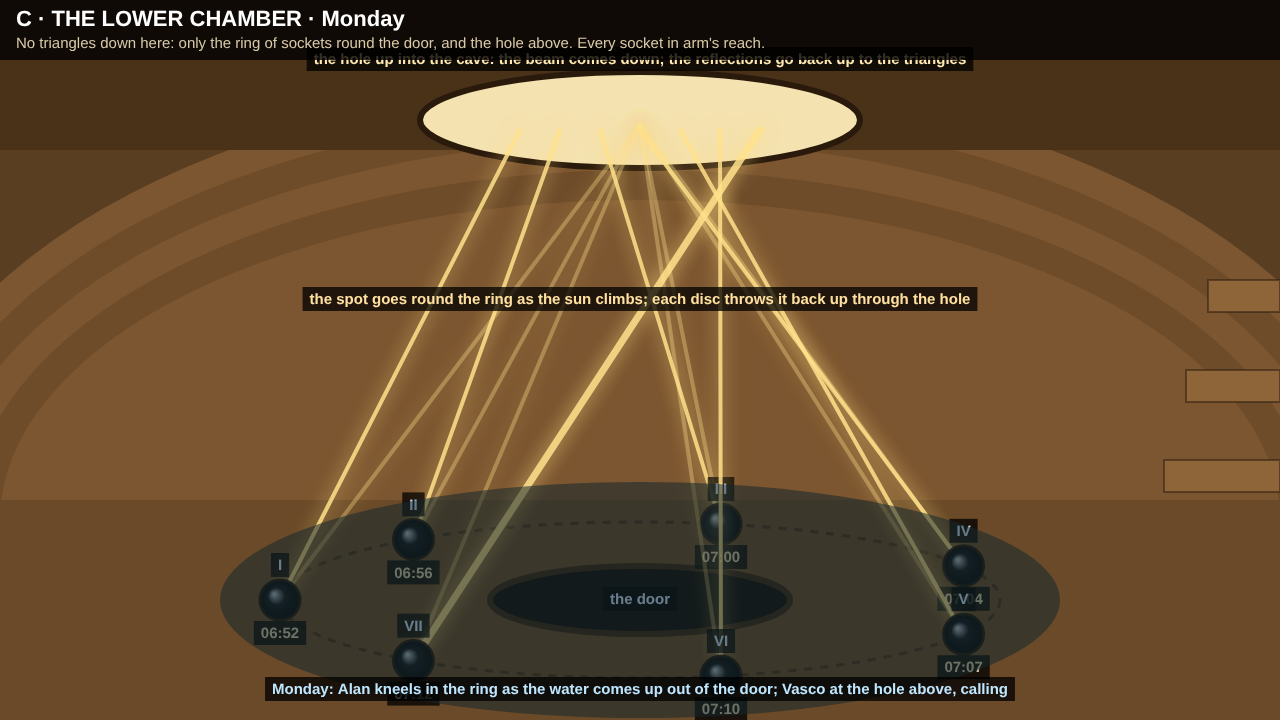
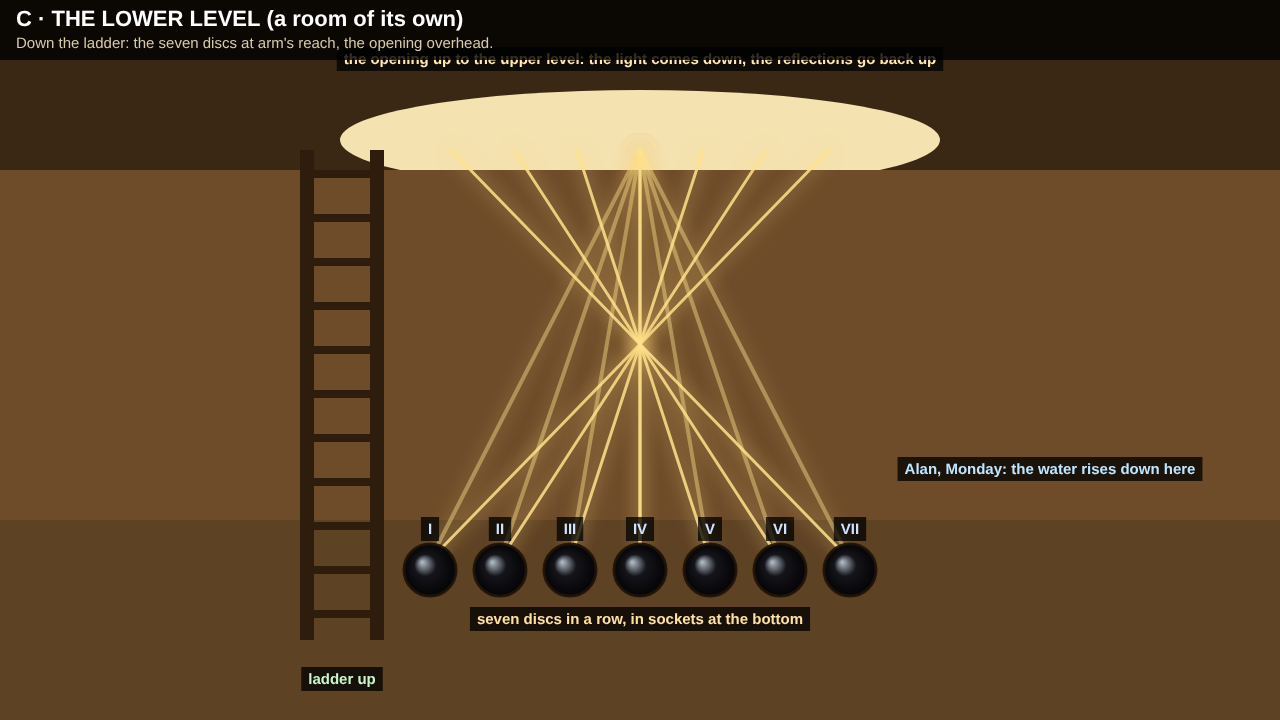
Sequel: Cave 6 from the user's section: the layout redrawn, the cave and the lower level painted (takes, for approval)
Claude-Session: https://claude.ai/code/session_016HTeTMdkPGeAf3vSMzZ5ZE

diff --git a/sequel/art/review/cave6_redesign/mock.html b/sequel/art/review/cave6_redesign/mock.html
@@ -27,95 +27,83 @@ function disc(g, x, y, r, set, n) { g.save(); const gr = g.createRadialGradient(
   gr.addColorStop(0.4, set ? 'rgba(20,20,26,1)' : 'rgba(80,56,30,1)'); gr.addColorStop(1, set ? 'rgba(4,4,6,1)' : 'rgba(120,84,44,1)'); g.fillStyle = gr; g.beginPath(); g.arc(x, y, r, 0, 7); g.fill();
   g.strokeStyle = 'rgba(30,18,8,0.9)'; g.lineWidth = 3; g.stroke(); g.restore(); if (n) label(g, x, y - r - 14, n, { fg: '#cfe2ff' }); }
 
-// (the user: "not like that, we still need the triangles to be at the top level of the cave and the disks at the lower
-// level of it"): the triangles on the walls of the cave itself; the ring of discs on the floor of the chamber below the
-// hole. The sunrise beam comes in through the one small opening, down through the hole, and as the sun climbs its spot goes
-// round the ring; each disc in turn throws it back UP through the hole onto its own small triangle in the cave above; VII,
-// last, onto the great triangle. A disc missing: its triangle stays dark (one nail out, not the whole lock).
-const TRI_UP = [[300, 360], [362, 360], [424, 360], [486, 360], [820, 360], [886, 360]];   // six small triangles lit, cave walls
-const GREAT = [680, 330];
-function cave(g, phase) {
-  g.fillStyle = '#7a5530'; g.fillRect(0, 0, 1280, 720);
-  for (let i = 0; i < 9; i++) { g.fillStyle = i % 2 ? '#8e6538' : '#a87a46'; g.beginPath(); g.ellipse(640, -140 + i * 28, 1000 - i * 60, 520 - i * 40, 0, 0, Math.PI); g.fill(); }
-  poly(g, [[0, 260], [1280, 260], [1280, 470], [0, 470]], '#9a6f3e');
-  poly(g, [[180, 470], [1100, 470], [1140, 500], [140, 500]], '#7e5a32');
-  poly(g, [[0, 500], [1280, 500], [1280, 720], [0, 720]], '#b48a52');
-  poly(g, [[40, 500], [40, 200], [120, 140], [210, 200], [210, 500]], '#cfe0ee'); poly(g, [[40, 380], [210, 380], [210, 500], [40, 500]], '#f2f2f2');
-  poly(g, [[540, 215], [820, 215], [680, 450]], '#7e5a32', 'rgba(40,24,10,0.7)', 3);
-  const lit = phase === 'mon' ? [0, 1, 2, 3, 4, 5] : [5];
-  [[300, 360], [362, 360], [424, 360], [486, 360], [820, 360], [886, 360], [950, 360], [1014, 360], [1078, 360], [1142, 360]].forEach(([x, y], i) => {
-    const k = TRI_UP.findIndex(t => t[0] === x); tri(g, x, y, 20, '#7e5a32', k >= 0 && lit.includes(k)); });
-  poly(g, [[930, 70], [968, 64], [972, 92], [934, 98]], '#e8f0ff', '#3a2610', 3);
-  label(g, 1060, 70, 'one small opening (a channel slanting through the rock, to the east)');
-  g.save(); g.fillStyle = '#1a1008'; g.beginPath(); g.ellipse(640, 600, 200, 52, 0, 0, 7); g.fill(); g.strokeStyle = '#5a3c1e'; g.lineWidth = 8; g.stroke(); g.restore();
-  beam(g, [[950, 82], [660, 600]], 12);
-  // the light coming back up out of the hole: to each disc's own small triangle; VII's to the great one
-  lit.forEach(k => beam(g, [[600 + k * 14, 590], TRI_UP[k]], 4));
-  if (phase === 'mon') { beam(g, [[680, 590], GREAT], 7); tri(g, GREAT[0], GREAT[1], 26, '#7e5a32', true); }
-  label(g, 640, 680, 'the hole: steps down to the lower chamber, where the ring of discs is');
-  label(g, 640, 160, phase === 'mon' ? 'Monday, all seven set: each small triangle lit in turn as the sun climbs; at 07:12 the great one'
-    : 'Saturday: only disc VI still in its socket below, so only its triangle lights', { fg: '#ffe0a0' });
-  label(g, 125, 120, 'the way out (as now)', { fg: '#c9f5c9' });
-  title(g, phase === 'mon' ? 'A · CAVE 6 (upper level) · Monday' : 'A · CAVE 6 (upper level) · Saturday',
-    'The triangles where they are now, on the cave walls. One small opening. The discs are below, in the chamber under the hole.');
-}
-// ------------------------------------------------------------ B: the two levels in section
+// (the user, 2026-10-30, with a drawn section: "since the light travels in straight lines, this is how the layout should
+// look like"): the opening in the ceiling straight above the opening in the floor; the light fans from it down through
+// the floor opening onto seven discs in a row at the bottom of the lower level; each disc throws it back up, crossing,
+// onto its own triangle on the upper level's back wall (three small, the great one in the middle, three small); a short
+// ladder down at the left edge of the floor opening; Vasco, Carmen, Baute and Yeray on the upper level, Alan below.
+const TRIS = [[292, 260, 70], [455, 260, 70], [617, 260, 70], [940, 260, 160], [1263, 260, 70], [1425, 260, 70], [1587, 260, 70]];
+const DISCS = [710, 787, 864, 941, 1017, 1094, 1171].map(x => [x, 942]);
+const SRC = [940, 50];
+// which disc lights which triangle: the reflections cross (left discs to right triangles and back), the middle one to the great
+const MAP = [6, 2, 1, 3, 5, 4, 0];
 function section(g) {
-  g.fillStyle = '#3a2814'; g.fillRect(0, 0, 1280, 720);
-  // the cave (upper), the rock between, the lower chamber
-  poly(g, [[140, 380], [140, 200], [300, 110], [980, 110], [1140, 200], [1140, 380]], '#a87a46');
-  poly(g, [[440, 520], [440, 470], [840, 470], [840, 520], [820, 600], [460, 600]], '#7c5630');
-  poly(g, [[560, 380], [720, 380], [720, 470], [560, 470]], '#a87a46');   // the hole through the floor
-  label(g, 640, 150, 'CAVE 6: the triangles on its walls');
-  label(g, 640, 640, 'THE LOWER CHAMBER: the ring of seven discs on its floor, round the door');
-  // the channel from the cliff face to the opening
-  poly(g, [[1240, 20], [1260, 40], [870, 130], [860, 112]], '#e8f0ff');
-  label(g, 1060, 30, 'the channel: open to the sunrise on the turn');
-  // the triangles on the cave walls (side view: marks on the left and right walls, the great one at the back)
-  for (const y of [240, 300]) { tri(g, 170, y, 14, '#7e5a32', true); tri(g, 1110, y, 14, '#7e5a32', true); }
-  tri(g, 640, 190, 22, '#7e5a32', true);
-  // the discs: seven along the chamber floor in section
-  const xs = [470, 520, 570, 620, 670, 720, 790];
-  xs.forEach((x, i) => disc(g, x, 588, 11, true, ['I', 'II', 'III', 'IV', 'V', 'VI', 'VII'][i]));
-  // the sunrise beam down the channel, through the hole, onto the discs (its spot moving along the ring as the sun climbs)
-  beam(g, [[1250, 30], [640, 380], [560, 588]], 8); g.save(); g.globalAlpha = 0.5; beam(g, [[640, 380], [790, 588]], 5); g.restore();
-  // back up through the hole to the walls
-  beam(g, [[470, 588], [600, 380], [170, 240]], 4); beam(g, [[720, 588], [680, 380], [1110, 300]], 4); beam(g, [[790, 588], [650, 380], [640, 190]], 6);
-  label(g, 330, 300, 'each disc throws it back up through the hole onto its own small triangle', { fg: '#ffe0a0' });
-  label(g, 870, 230, 'VII, last: the great triangle', { fg: '#ffe0a0' });
-  label(g, 960, 560, 'the floor: the door (the water comes up here)', { fg: '#cfe2ff' });
-  label(g, 980, 440, 'steps down from the cave', { fg: '#c9f5c9' });
-  title(g, 'B · THE TWO LEVELS, in section', 'In through the opening, down through the hole to the ring of discs, back up through the hole to the triangles above.');
+  const k = 1280 / 1920; g.save(); g.scale(k, k);
+  g.fillStyle = '#fff'; g.fillRect(0, 0, 1920, 1080);
+  g.fillStyle = '#c9d1da'; g.beginPath(); g.arc(940, 5, 50, 0, 7); g.fill();
+  TRIS.forEach(([x, y, w]) => { g.beginPath(); g.moveTo(x - w, y - 27); g.lineTo(x + w, y - 27); g.lineTo(x, y + (w > 100 ? 255 : 95)); g.closePath(); g.fill(); });
+  g.strokeStyle = '#111'; g.lineWidth = 5; g.beginPath(); g.moveTo(10, 600); g.lineTo(617, 600); g.moveTo(1300, 600); g.lineTo(1920, 600); g.stroke();
+  for (let y = 615; y < 1050; y += 92) { g.fillStyle = '#111'; g.fillRect(592, y, 22, 64); }
+  DISCS.forEach(([x, y]) => { g.fillStyle = '#c9d1da'; g.beginPath(); g.arc(x, y, 38, 0, 7); g.fill(); });
+  g.strokeStyle = '#f2c94c'; g.lineWidth = 4; g.setLineDash([6, 6]);
+  DISCS.forEach(([x, y], i) => { g.beginPath(); g.moveTo(SRC[0], SRC[1]); g.lineTo(x, y - 38); g.stroke();
+    const t = TRIS[MAP[i]]; g.beginPath(); g.moveTo(x, y - 38); g.lineTo(t[0], t[1] + (t[2] > 100 ? 120 : 40)); g.stroke(); });
+  g.setLineDash([]);
+  const man = (x, y, s) => { g.fillStyle = '#111'; g.beginPath(); g.arc(x, y - 200 * s, 18 * s, 0, 7); g.fill(); g.fillRect(x - 22 * s, y - 180 * s, 44 * s, 90 * s); g.fillRect(x - 18 * s, y - 92 * s, 14 * s, 92 * s); g.fillRect(x + 4 * s, y - 92 * s, 14 * s, 92 * s); };
+  [190, 313, 433, 553].forEach(x => man(x, 600, 1)); man(1336, 1045, 1);
+  g.fillStyle = '#111'; g.font = '24px sans-serif';
+  g.fillText('Beam entry in the ceiling', 618, 66); g.fillText('Triangles', 60, 300); g.fillText('Opening in the floor', 840, 622);
+  g.fillText('Upper level of the cave', 1642, 562); g.fillText('Lower level of the cave', 1642, 651); g.fillText('Ladder', 504, 830);
+  g.fillText('Disks', 912, 1040); g.fillText('Alan', 1443, 942);
+  ['Vasco', 'Carmen', 'Baute', 'Yeray'].forEach((n, i) => g.fillText(n, 46, 462 + i * 33));
+  g.restore();
+  title(g, 'A · THE SECTION (the user\'s drawing, redrawn)', 'Light in straight lines: down through the floor opening to each disc, back up, crossing, to its own triangle.');
 }
-// ------------------------------------------------------------ C: the lower chamber, Monday
-const C = [640, 600], RX = 360, RY = 78;
-const ANG = [180, 129, 77, 26, -26, -77, -129];
-const S = ANG.map(a => [C[0] + RX * Math.cos(a * Math.PI / 180), C[1] - RY * Math.sin(a * Math.PI / 180)]);
-function lower(g) {
-  g.fillStyle = '#5a3e22'; g.fillRect(0, 0, 1280, 720);
-  for (let i = 0; i < 5; i++) { g.fillStyle = i % 2 ? '#6e4c2a' : '#7c5630'; g.beginPath(); g.ellipse(640, 520, 760 - i * 30, 440 - i * 30, 0, Math.PI, 0); g.fill(); }
-  poly(g, [[0, 0], [1280, 0], [1280, 150], [0, 150]], '#4a3219');
-  g.save(); g.fillStyle = '#f4e2b0'; g.beginPath(); g.ellipse(640, 120, 220, 48, 0, 0, 7); g.fill(); g.strokeStyle = '#2a1a0c'; g.lineWidth = 6; g.stroke(); g.restore();
-  label(g, 640, 60, 'the hole up into the cave: the beam comes down; the reflections go back up to the triangles');
-  for (let i = 0; i < 5; i++) poly(g, [[1120 + i * 22, 640 - i * 90], [1280, 640 - i * 90], [1280, 672 - i * 90], [1120 + i * 22, 672 - i * 90]], '#8e6538', 'rgba(40,24,10,0.5)', 2);
-  label(g, 1180, 700, 'steps up to the cave', { fg: '#c9f5c9' });
-  poly(g, [[0, 500], [1280, 500], [1280, 720], [0, 720]], '#6a4a28');
-  g.save(); g.fillStyle = '#120a05'; g.beginPath(); g.ellipse(C[0], C[1], 150, 34, 0, 0, 7); g.fill(); g.strokeStyle = '#3a2410'; g.lineWidth = 6; g.stroke();
-  g.strokeStyle = 'rgba(40,24,10,0.5)'; g.lineWidth = 3; g.setLineDash([8, 8]); g.beginPath(); g.ellipse(C[0], C[1], RX, RY, 0, 0, 7); g.stroke(); g.restore();
-  label(g, C[0], C[1], 'the door', { fg: '#cfe2ff' });
-  const names = ['I', 'II', 'III', 'IV', 'V', 'VI', 'VII'], T = ['06:52', '06:56', '07:00', '07:04', '07:07', '07:10', '07:12'];
-  S.forEach(([x, y], i) => {
-    g.save(); g.globalAlpha = 0.4; beam(g, [[640, 124], [x, y]], 4); g.restore();
-    beam(g, [[x, y], [520 + i * 40, 130]], i < 6 ? 4 : 7);
-    disc(g, x, y, 20, true, names[i]); label(g, x, y + 34, T[i], { fg: '#d8c9a8' });
-  });
-  g.save(); g.fillStyle = 'rgba(20,40,46,0.55)'; g.beginPath(); g.ellipse(C[0], C[1], RX + 60, RY + 40, 0, 0, 7); g.fill(); g.restore();
-  label(g, 640, 300, 'the spot goes round the ring as the sun climbs; each disc throws it back up through the hole', { fg: '#ffe0a0' });
-  label(g, 640, 690, 'Monday: Alan kneels in the ring as the water comes up out of the door; Vasco at the hole above, calling', { fg: '#bfe6ff' });
-  title(g, 'C · THE LOWER CHAMBER · Monday', 'No triangles down here: only the ring of sockets round the door, and the hole above. Every socket in arm\'s reach.');
+// ------------------------------------------------------------ B: the upper level, as the game shows it
+function upper(g) {
+  g.fillStyle = '#7a5530'; g.fillRect(0, 0, 1280, 720);
+  for (let i = 0; i < 6; i++) { g.fillStyle = i % 2 ? '#8e6538' : '#a87a46'; g.beginPath(); g.ellipse(640, -160 + i * 26, 900 - i * 60, 300 - i * 30, 0, 0, Math.PI); g.fill(); }
+  poly(g, [[0, 150], [1280, 150], [1280, 480], [0, 480]], '#9a6f3e');
+  poly(g, [[0, 480], [1280, 480], [1280, 720], [0, 720]], '#b48a52');
+  poly(g, [[30, 480], [30, 230], [100, 170], [170, 230], [170, 480]], '#cfe0ee');
+  // the small opening in the ceiling, straight above the floor opening
+  g.save(); g.fillStyle = '#eef4ff'; g.beginPath(); g.ellipse(640, 40, 34, 12, 0, 0, 7); g.fill(); g.restore();
+  label(g, 780, 40, 'one small opening in the ceiling');
+  // the back wall: three small triangles, the great one in the middle, three small
+  const T = [[230, 250], [330, 250], [430, 250], [640, 250], [850, 250], [950, 250], [1050, 250]];
+  T.forEach(([x, y], i) => i === 3 ? poly(g, [[x - 120, y - 70], [x + 120, y - 70], [x, y + 170]], 'rgba(255,214,120,0.9)', 'rgba(40,24,10,0.6)', 3) : tri(g, x, y, 34, '#7e5a32', true));
+  // the opening in the floor, the ladder down at its left edge
+  g.save(); g.fillStyle = '#140c06'; g.beginPath(); g.ellipse(640, 600, 260, 70, 0, 0, 7); g.fill(); g.strokeStyle = '#5a3c1e'; g.lineWidth = 8; g.stroke(); g.restore();
+  poly(g, [[408, 560], [420, 560], [420, 640], [408, 640]], '#3a2410'); poly(g, [[450, 560], [462, 560], [462, 640], [450, 640]], '#3a2410');
+  for (let y = 570; y < 640; y += 16) poly(g, [[408, y], [462, y], [462, y + 5], [408, y + 5]], '#3a2410');
+  label(g, 435, 670, 'ladder down', { fg: '#c9f5c9' });
+  beam(g, [[640, 46], [640, 590]], 10);
+  [-200, -120, -40, 40, 120, 200].forEach((dx, i) => beam(g, [[640 + dx * 0.6, 600], T[[0, 1, 2, 4, 5, 6][i]]], 3));
+  beam(g, [[640, 600], [640, 330]], 6);
+  label(g, 640, 690, 'the opening in the floor: the discs are at the bottom, in the lower level');
+  title(g, 'B · THE UPPER LEVEL (the room the game shows)', 'The ceiling opening above the floor opening; the triangles on the back wall; the ladder down at the left edge.');
 }
-cave(document.getElementById('a').getContext('2d'), 'mon');
-section(document.getElementById('b').getContext('2d'));
-lower(document.getElementById('c').getContext('2d'));
+// ------------------------------------------------------------ C: the lower level
+function lowerLevel(g) {
+  g.fillStyle = '#4e3620'; g.fillRect(0, 0, 1280, 720);
+  poly(g, [[0, 0], [1280, 0], [1280, 170], [0, 170]], '#3a2814');
+  g.save(); g.fillStyle = '#f4e2b0'; g.beginPath(); g.ellipse(640, 140, 300, 50, 0, 0, 7); g.fill(); g.restore();
+  label(g, 640, 60, 'the opening up to the upper level: the light comes down, the reflections go back up');
+  poly(g, [[0, 170], [1280, 170], [1280, 520], [0, 520]], '#6e4c2a');
+  poly(g, [[0, 520], [1280, 520], [1280, 720], [0, 720]], '#5e4224');
+  // the ladder up, left
+  poly(g, [[300, 150], [314, 150], [314, 640], [300, 640]], '#2e1c0c'); poly(g, [[370, 150], [384, 150], [384, 640], [370, 640]], '#2e1c0c');
+  for (let y = 170; y < 640; y += 44) poly(g, [[300, y], [384, y], [384, y + 8], [300, y + 8]], '#2e1c0c');
+  label(g, 342, 680, 'ladder up', { fg: '#c9f5c9' });
+  // seven discs in a row in sockets at the bottom, under the opening
+  const D = [430, 500, 570, 640, 710, 780, 850];
+  D.forEach((x, i) => { g.save(); g.globalAlpha = 0.5; beam(g, [[640, 150], [x, 560]], 4); g.restore(); beam(g, [[x, 560], [640 + (x - 640) * -0.9, 150]], 3); disc(g, x, 570, 26, true, ['I', 'II', 'III', 'IV', 'V', 'VI', 'VII'][i]); });
+  label(g, 640, 620, 'seven discs in a row, in sockets at the bottom', { fg: '#ffe0a0' });
+  label(g, 1050, 470, 'Alan, Monday: the water rises down here', { fg: '#bfe6ff' });
+  title(g, 'C · THE LOWER LEVEL (a room of its own)', 'Down the ladder: the seven discs at arm\'s reach, the opening overhead.');
+}
+section(document.getElementById('a').getContext('2d'));
+upper(document.getElementById('b').getContext('2d'));
+lowerLevel(document.getElementById('c').getContext('2d'));
 document.title = 'ready';
 </script>
